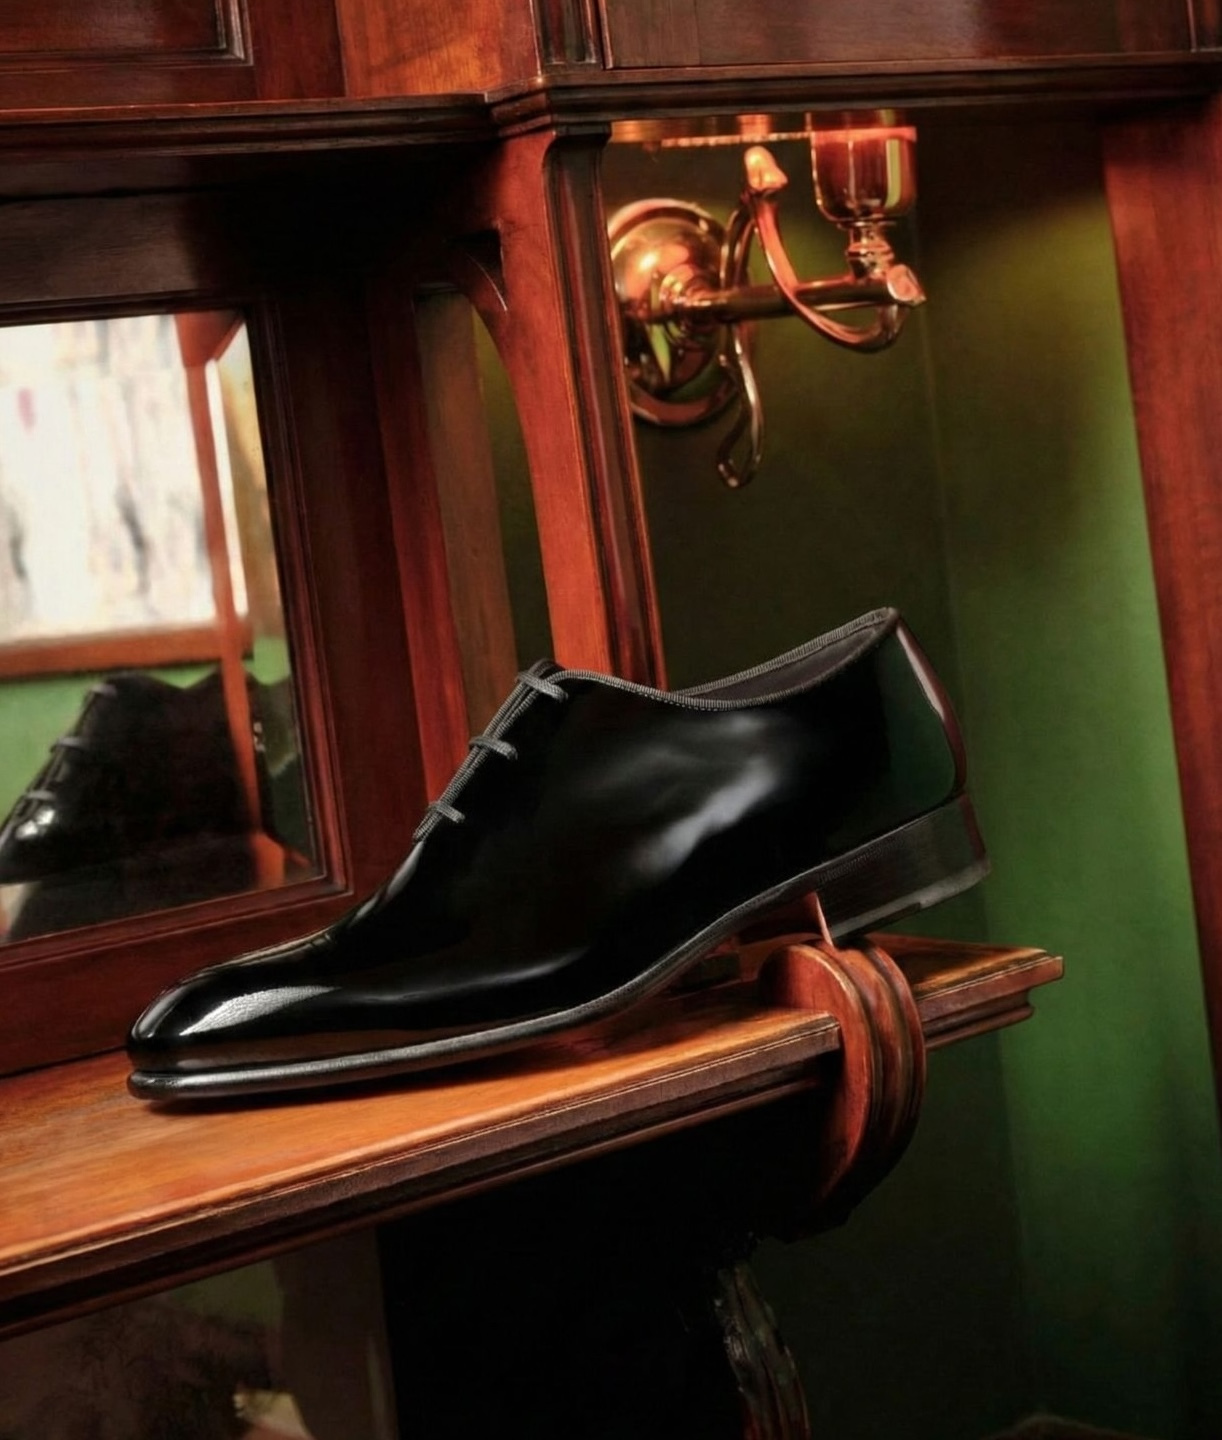
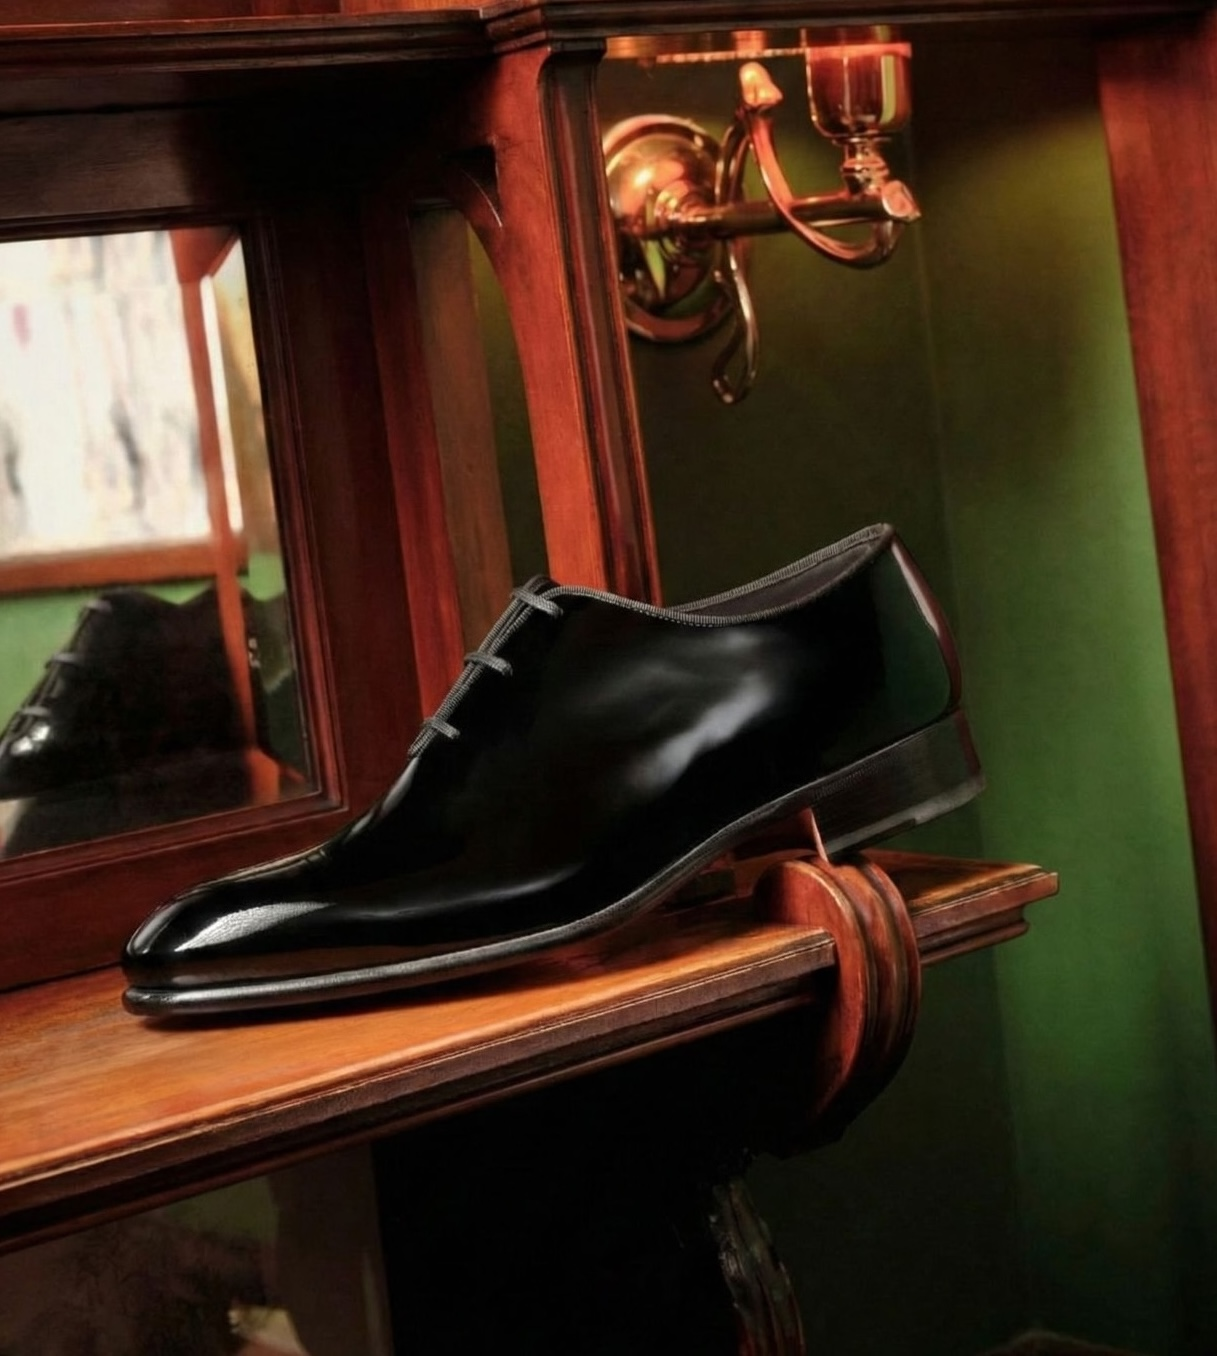
feat: add dynamic subcategory images for man/woman categories

diff --git a/src/pages/CategoryCollection.jsx b/src/pages/CategoryCollection.jsx
@@ -5,6 +5,29 @@ import manCategory from "../assets/man_category.webp";
 import womanCategory from "../assets/woman_category.jpg";
 import accessoriesCategory from "../assets/AccessoriesCategory.jpg";
 import clothesCategory from "../assets/ClothesCategory.webp";
+
+// Import men's subcategory images
+import manClassic from "../assets/man/classic.jpeg";
+import manDerby from "../assets/man/derby.jpeg";
+import manOxford from "../assets/man/oxford.jpeg";
+import manMonk from "../assets/man/monk.jpeg";
+import manLoafers from "../assets/man/loafers.jpeg";
+import manBoots from "../assets/man/boots.jpeg";
+import manMoccasin from "../assets/man/moccasin.jpeg";
+import manSports from "../assets/man/sports.jpeg";
+import manSandals from "../assets/man/sandals.jpeg";
+import manSlippers from "../assets/man/slippers.jpeg";
+
+// Import women's subcategory images
+import womanBoots from "../assets/woman/boots.jpeg";
+import womanHighHeels from "../assets/woman/high_heels.jpeg";
+import womanMoccasins from "../assets/woman/moccasins.jpg";
+import womanSports from "../assets/woman/sports.jpeg";
+import womanFlat from "../assets/woman/flat_shoes.jpeg";
+import womanPumps from "../assets/woman/pumps.jpeg";
+import womanSandals from "../assets/woman/sandals.jpeg";
+import womanSlippers from "../assets/woman/slippers.jpeg";
+
 import { client } from "../sanity/clients";
 import LanguageContext from "../context/LanguageContext";
 import CategoryContext from "../context/CategoryContext";
@@ -34,6 +57,34 @@ const getCategoryAltText = (group, language) => {
     },
   };
   return alts[group]?.[language] || alts[group]?.en || "Danilov collection";
+};
+
+// Helper function to get subcategory image
+const getSubcategoryImage = (category) => {
+  const subcategoryImages = {
+    // Men's subcategories
+    "man-classic": manClassic,
+    "man-derby": manDerby,
+    "man-oxford": manOxford,
+    "man-monk": manMonk,
+    "man-loafers": manLoafers,
+    "man-boots": manBoots,
+    "man-moccasins": manMoccasin,
+    "man-sports": manSports,
+    "man-sandals": manSandals,
+    "man-mules": manSlippers,
+    // Women's subcategories
+    "woman-boots": womanBoots,
+    "woman-high-heels": womanHighHeels,
+    "woman-moccasins": womanMoccasins,
+    "woman-sports": womanSports,
+    "woman-flat": womanFlat,
+    "woman-pumps": womanPumps,
+    "woman-sandals": womanSandals,
+    "woman-mules": womanSlippers,
+  };
+  
+  return subcategoryImages[category] || null;
 };
 
 const underlineClass =
@@ -139,6 +190,12 @@ export default function CategoryCollection() {
   const heroImage = useMemo(() => {
     if (category === "man-accessories") return accessoriesCategory;
     if (category === "man-clothes") return clothesCategory;
+    
+    // Check if there's a specific subcategory image
+    const subcategoryImage = getSubcategoryImage(category);
+    if (subcategoryImage) return subcategoryImage;
+    
+    // Default to main category images for "view all" pages
     if (group === "man") return manCategory;
     if (group === "woman") return womanCategory;
     return manCategory;
@@ -317,13 +374,14 @@ export default function CategoryCollection() {
             {loading ? (
               <div className="grid grid-cols-2 md:grid-cols-3 lg:grid-cols-5 gap-2">
                 <div className="hidden lg:block lg:col-start-4 lg:row-start-1 lg:col-span-2 lg:row-span-2">
-                  <div className="w-full h-full bg-black/5 overflow-hidden">
+                  <div className="w-full aspect-4/5 bg-black/5 overflow-hidden">
                     <img
                       src={heroImage}
                       alt={getCategoryAltText(group, language)}
-                      className="w-full h-full object-cover"
+                      className="w-full h-full object-cover object-center"
                       loading="eager"
                       fetchPriority="high"
+                      style={{ imageRendering: 'auto' }}
                     />
                   </div>
                 </div>
@@ -343,13 +401,14 @@ export default function CategoryCollection() {
             ) : (
               <div className="grid grid-cols-2 md:grid-cols-3 lg:grid-cols-5 gap-2">
                 <div className="hidden lg:block lg:col-start-4 lg:row-start-1 lg:col-span-2 lg:row-span-2">
-                  <div className="w-full h-full bg-black/5 overflow-hidden">
+                  <div className="w-full aspect-4/5 bg-black/5 overflow-hidden">
                     <img
                       src={heroImage}
                       alt={getCategoryAltText(group, language)}
-                      className="w-full h-full object-cover"
+                      className="w-full h-full object-cover object-center"
                       loading="eager"
                       fetchPriority="high"
+                      style={{ imageRendering: 'auto' }}
                     />
                   </div>
                 </div>

diff --git a/src/components/Header.jsx b/src/components/Header.jsx
@@ -421,7 +421,7 @@ export default function Header() {
     >
       <div className="pr-3">
         <div className="h-16 flex items-center justify-between">
-          <div className="flex items-center gap-2">
+          <div className="flex items-center gap-1">
             <button
               type="button"
               onClick={() => {
@@ -438,7 +438,7 @@ export default function Header() {
               />
             </button>
 
-            <div className="hidden lg:flex items-center gap-6 text-[13px]">
+            <div className="hidden lg:flex items-center gap-5 text-[13px]">
               {NAV.map((i) => {
                 const isActive = active === i.key;
                 return (
